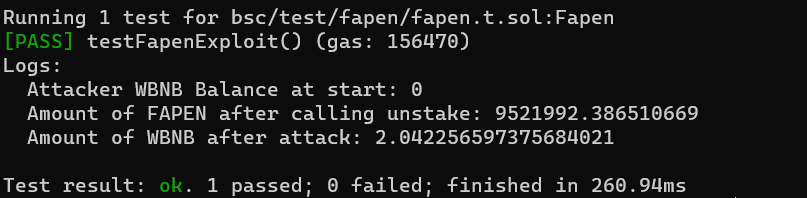
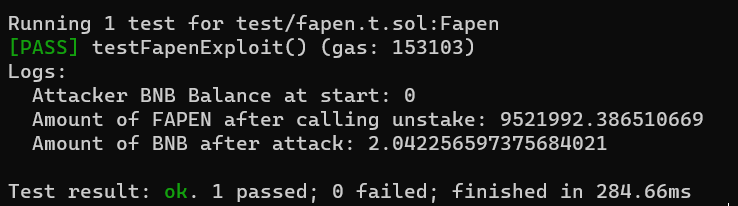
fixed errors

Changed region(s): [[0.0, 0.303, 0.9661, 0.7576], [0.0, 0.0303, 0.7791, 0.303], [0.0, 0.8788, 0.935, 1.0]]

diff --git a/README.md b/README.md
@@ -4,13 +4,13 @@ _capturethefoundry_ is a platform to practice foundry skills like writing PoCs a
 
 ## Introduction
 
-Hey there, researcher! Have you heard of pancakeswap? It seems that I have some FAPEN (Father Pepe Inu) tokens and I want to swap them for some WBNB. Can you help me out? I need the contract address of the FAPEN token and WBNB token first, then I need you to help me swap my FAPEN tokens with WBNB tokens. I know it's a lot to ask for, but I really need some BNB right now... 
+Hey there, researcher! Have you heard of pancakeswap? It seems that I have some FAPEN (Father Pepe Inu) tokens and I want to swap them for some WBNB. Can you help me out? I need the contract address of the FAPEN token and WBNB token first, then I need you to help me swap my FAPEN tokens for BNB tokens. I know it's a lot to ask for, but I really need some BNB right now... 
 
 I think you can find the contract addresses of both tokens [here](https://bscscan.com/tx/0xa2be65e439eb182e8f2acfe7eff9a4bab55eb3cd789dcc0ddd19bf811af78a93).
 
 ## Objectives
 
-All the code in the contract should be working fine, so there's no need to delete anything. All you need to do is to add some code in for the test to work.
+All the code in the contract should be working fine, so there's no need to delete anything. All you need to do is to add some code in the [test file](https://github.com/capturethefoundry/fapen/blob/main/solution/fapen.t.sol) for the test to work.
 
 1. Clone this repository locally (Make sure you have foundry installed)
 2. Run the following command. The command should fail because of incomplete information.  
@@ -18,6 +18,7 @@ All the code in the contract should be working fine, so there's no need to delet
 ```
     forge test
 ```
+3. Fix the issues in the test file. 
 
 You should see this in your console once all the issues are fixed:
 
@@ -33,11 +34,11 @@ If you're unsure of what to put in for the input parameters of the swap function
 
 I think you have to create the path by youself, like creating an array with 2 indexes. The first index should be the address of FAPEN and the second should be the address of WBNB.
 
-When you're copying the token address, make sure that you copy from the BSCScan website itself. Capital letters are important!
+Also, when you're copying the token address, make sure that you copy from the BSCScan website itself. Capital letters are important!
 
 ## Solution
 
-The solution will be posted in the [solution](https://github.com/capturethefoundry/fapen/tree/main/solution/solution.md) folder. 
+The solution will be posted in the [solution](https://github.com/capturethefoundry/fapen/blob/main/solution/fapen.t.sol) folder. 
 
 Good luck, researcher!
 
